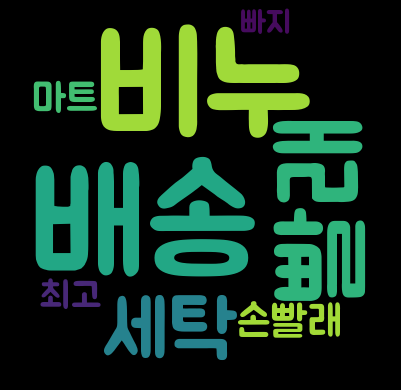
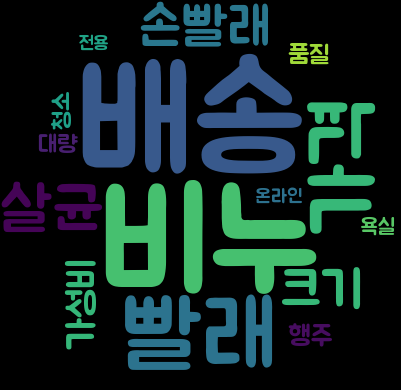
파이널 푸시
파이널

diff --git a/server/RIverVIEW/MakeData/string_control.py b/server/RIverVIEW/MakeData/string_control.py
@@ -186,6 +186,8 @@ def make_keyword_dataframe(keyword=[], data=pd.DataFrame(), col='review', size=_
     if not view_single:
         for i in tqdm(df.index):
             score = get_sentence_score(df.loc[i,col], max_len= max_len)
+            if score == -999:
+                continue
             is_NOT_contain_keyword = True
 
             for w in keyword:  # 문장에 키워드를 포함하지 않는 키워드는 일단 보지않음.
@@ -206,44 +208,44 @@ def make_keyword_dataframe(keyword=[], data=pd.DataFrame(), col='review', size=_
             is_NOT_contain_keyword = True
             #score = get_sentence_score(df.loc[i,col], max_len= max_len)
             review_list = get_single_sentence(df.loc[i,col])
+            freq = {w:1 for w in keyword}
             for sentence in review_list:
+                score = get_sentence_score(sentence, max_len= max_len)
+                if score == -999:
+                    continue
                 for w in keyword:  # 문장에 키워드를 포함하지 않는 키워드는 일단 보지않음.
                     word = get_contain_same_keyword(w, df.loc[i,'tokenized_data'], wv)
                     if word != '_etc':  # 지금 보는 문장에 키워드가 존재한다면
-                        score = get_sentence_score(sentence, max_len= max_len)
                         keyword_freq[word] += 1
+                        freq[word] += 1
                         is_NOT_contain_keyword = False
                         ret_sentence_keyword.loc[i, word] += score
+            if is_NOT_contain_keyword == False:
+                for w in keyword:
+                    ret_sentence_keyword.loc[i,w] = ret_sentence_keyword.loc[i,w] / freq[w]
+                    
 
             if is_NOT_contain_keyword:  # 문장에 키워드를 포함하고있지 않은 일반 리뷰라면,
                 keyword_freq['_etc'] += 1
                 score = get_sentence_score(df.loc[i,col], max_len= max_len)
+                if score == -999:
+                    continue
                 ret_sentence_keyword.loc[i, '_etc'] = score
     
     keyword_score = {}
-    if not view_single:
-        for w in keyword_list:
-            keyword_score_sum[w] = ret_sentence_keyword[w].sum()
-            keyword_freq[w] = len(ret_sentence_keyword[ret_sentence_keyword[w] != 0].index)
-            if keyword_freq[w] == 0:
-                del keyword_freq[w]
-                del keyword_score_sum[w]
-                del ret_sentence_keyword[w]
-            else:
-                keyword_score[w] = keyword_score_sum[w] / keyword_freq[w]
-                if keyword_score[w] > 100:
-                    keyword_score[w] = 100
-    else:
-        for w in keyword_list:
-            keyword_score_sum[w] = ret_sentence_keyword[w].sum()
-            if keyword_freq[w] == 0:
-                del keyword_freq[w]
-                del keyword_score_sum[w]
-                del ret_sentence_keyword[w]
-            else:
-                keyword_score[w] = keyword_score_sum[w] / keyword_freq[w]
-                if keyword_score[w] > 100:
-                    keyword_score[w] = 100
+    for w in keyword_list:
+        keyword_score_sum[w] = ret_sentence_keyword[w].sum()
+        keyword_freq[w] = len(ret_sentence_keyword[ret_sentence_keyword[w] != 0].index)
+        if keyword_freq[w] == 0:
+            del keyword_freq[w]
+            del keyword_score_sum[w]
+            del ret_sentence_keyword[w]
+        else:
+            keyword_score[w] = keyword_score_sum[w] / keyword_freq[w]
+            if keyword_score[w] > 100:
+                keyword_score[w] = 100
+    
+    print(keyword_score)
     return ret_sentence_keyword, keyword_score_sum, keyword_freq, keyword_score
 
 
@@ -269,7 +271,6 @@ def get_keyword_example(data: pd.DataFrame, wv, col='review', key_score={}, size
     keyword = [k for k, v in key_score.items()]
     example_sentece = {}
     cnt = 0
-    total_data.to_csv('t.csv')
     for i in tqdm(total_data.index):
         for w in keyword:
             if total_data.loc[i,w] != 0:
@@ -280,6 +281,8 @@ def get_keyword_example(data: pd.DataFrame, wv, col='review', key_score={}, size
                         key = get_contain_same_keyword(w, mecab_tokenizer(sentence),wv)
                         if key != '_etc':
                             sentence_score = get_sentence_score(sentence, max_len= max_len)
+                            if sentence_score == -999:
+                                continue
                             review_score = total_data.loc[i, key]
                             if is_same_opinion(key_score[key], sentence_score, 50) and is_same_opinion(key_score[key], review_score, 45):
                                 find_example = True

diff --git a/server/RIverVIEW/MakeData/data_preprocess.py b/server/RIverVIEW/MakeData/data_preprocess.py
@@ -12,6 +12,7 @@ __OS_MODE = 0
 
 stopwords = set(['JKC', 'JKG', 'JKO', 'JKB', 'JKV', 'JKQ', 'JX', 'JC'])
 get_words = set(['NNG','NNP',])
+nn_v_words = set(['NNG','NNP','VV','VA',])
 useless_word = set(['만족', '구입', '구매', '생각', '때', '주문', '정도', '느낌', '맘', '마음', '상품', '제품', '물건','아서','어서','해요','감사','세요','기대','모르','예요', '사용','후기','빠르','괜찮','리뷰','처음','부분'])
 useless_word_dic = pd.read_csv(os.path.join( Path(__file__).resolve().parent, 'load/stop_word.csv'))
 useless_word_dic = useless_word_dic.values.tolist()
@@ -93,7 +94,7 @@ def mecab_pos(sentence: str):
 
 #메캅 형태소 분리기
 
-def mecab_tokenizer(raw,pos=get_words, stopword=stopwords):
+def mecab_tokenizer(raw,pos=nn_v_words, stopword=stopwords):
     return [word for word, tag in mecab_pos(raw) \
         if len(word) > 1 and\
             tag in pos and \
@@ -104,7 +105,7 @@ def mecab_tokenizer(raw,pos=get_words, stopword=stopwords):
 #   미리 지정해두지 않은 단어,
 #   미리 설정한 의미없는 단어를 제외하고
 #   형태소를 분ㄹ하여 반환
-def mecab_get_useful_word(raw, pos=get_words, stopword=stopwords):
+def mecab_get_useful_word(raw, pos=nn_v_words, stopword=stopwords):
     return [word for word, tag in mecab_pos(raw) \
             if len(word) > 1 and \
                 tag in pos and \
@@ -113,7 +114,7 @@ def mecab_get_useful_word(raw, pos=get_words, stopword=stopwords):
 
 #형태소분리 -> 다시 이어붙이기
 def tok_concat_str(sentence: str):
-    return ' '.join(mecab_tokenizer(sentence))
+    return ' '.join(mecab_morphs(sentence))
 
 def clean_str(text):
     pattern = '([a-zA-Z0-9_.+-]+@[a-zA-Z0-9-]+\.[a-zA-Z0-9-.]+)' # E-mail제거

diff --git a/server/RIverVIEW/MakeData/make_data.py b/server/RIverVIEW/MakeData/make_data.py
@@ -41,18 +41,19 @@ def  make_final_data(total_data: pd.DataFrame, col_name='review', limit_size = 1
     keyword = get_keyword(total_data, product_name, w2v)
     t.cut('키워드 추출')
 
-
+    VIEW_SINGLE = False
     df, score_sum, key_freq, key_score = make_keyword_dataframe(
         keyword= keyword,
         data= total_data,
         col= col_name,
         size=limit_size,
-        view_single=False,
+        view_single=VIEW_SINGLE,
         wv= w2v,
         max_len=max_len
     )
     keyword = [k for k,v in key_score.items()]
     df = pd.concat([total_data['review'],total_data['tokenized_data'],df],axis=1)
+    df.to_csv(product_name+'.csv')
     t.cut('데이터프레임 생성')
     keyword_example = get_keyword_example(
         data= df,
@@ -60,7 +61,7 @@ def  make_final_data(total_data: pd.DataFrame, col_name='review', limit_size = 1
         key_score= key_score,
         size=limit_size,
         wv=w2v
-        )
+        )#
     t.cut('keyword example')
     t.eend(st, t.end())
     return keyword, keyword_example, key_score, key_freq

diff --git a/server/RIverVIEW/views.py b/server/RIverVIEW/views.py
@@ -91,7 +91,7 @@ def search(request):
                                          img_src=img_src)
                     product.save()
                     keyword, keyword_example, key_score, key_freq = make_final_data(total_data=temp, col_name='review',
-                                                                                    limit_size=200, product_name=product_name, T_DEBUG=1)
+                                                                                    limit_size=700, product_name=product_name, T_DEBUG=1)
                     for word in keyword:
                         productKeyword=ProductKeyword(product_reference_id=int(product_num),
                                                       keyword=word,

diff --git a/server/RIverVIEW/MakeData/functions.py b/server/RIverVIEW/MakeData/functions.py
@@ -84,9 +84,9 @@ def start_crawling(product_num, url=None):
         product_name = soup.find('h3', attrs={'class': '_3oDjSvLwq9 _copyable'}).text.strip()
         img_src = soup.find('div', attrs={'class': '_23RpOU6xpc'}).find('img')['src']
 
-        pool = Pool(5)
+        pool = Pool(4)
         func = partial(Crawling, product_num,merchant_num,store)
-        temp= pool.map(func, range(1, 30))
+        temp= pool.map(func, range(1, 71))
         pool.close()
         pool.join()
         temp = list(filter(None, temp))

diff --git a/server/RIverVIEW/MakeData/AI.py b/server/RIverVIEW/MakeData/AI.py
@@ -52,6 +52,8 @@ def get_word_similarity(w1,w2,w2v):
 #0~1사이의 예측값(1: 긍정 0: 부정)을 100을 곱해 반환
 def get_sentence_score(new_sentence, max_len = 80):
     sentence = tok_concat_str(new_sentence)
+    if len(sentence) ==0:
+        return -999
     encoded = GRU_tokenizer.texts_to_sequences([sentence])
     pad_new = pad_sequences(encoded, maxlen = max_len)
     score = float(GRU_model.predict(pad_new, verbose= 0))
